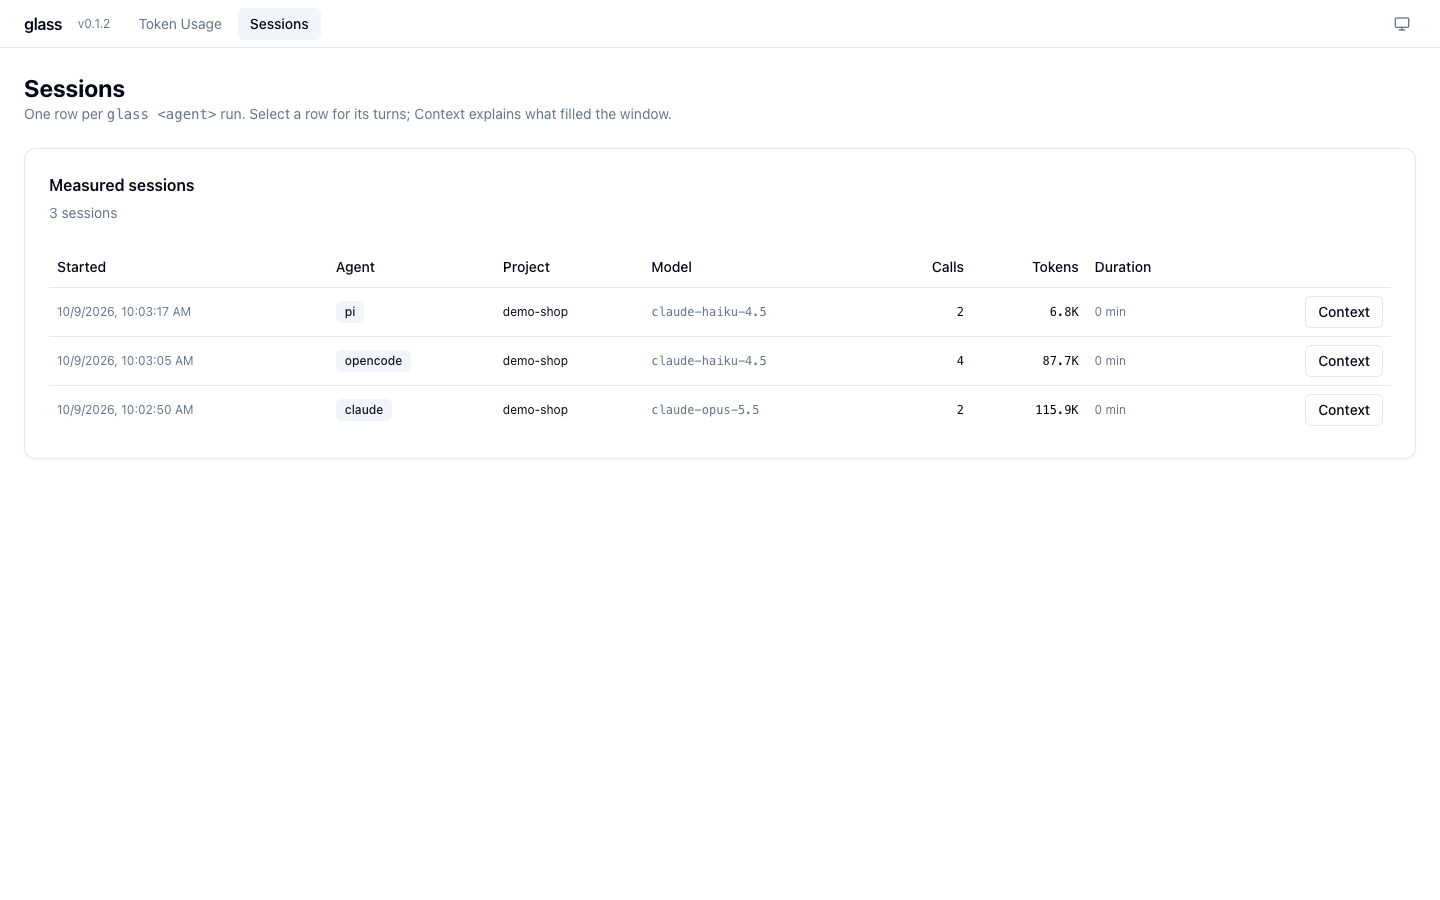
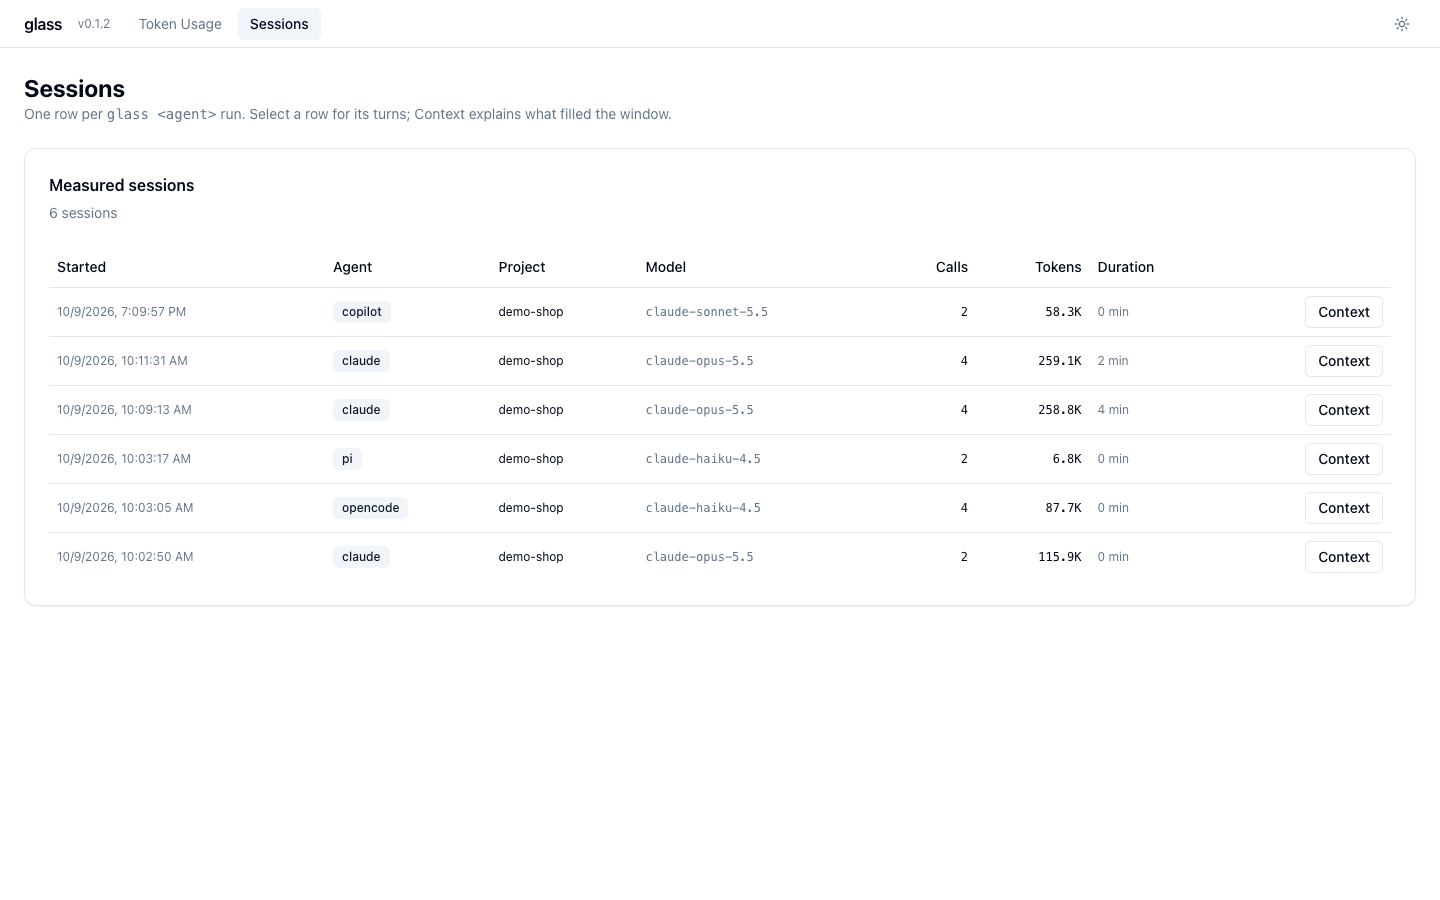
docs(glass): screenshots with all four agents (copilot measured), texts updated

diff --git a/glass/overlay/docs/_tiers/comparing-runs.deep.md b/glass/overlay/docs/_tiers/comparing-runs.deep.md
@@ -16,11 +16,13 @@ Anything you can vary between two `glass <agent>` runs:
 2. **Run each variant** through glass, one after the other.
 3. **Compare in Sessions** — one row per run:
 
-    ![Sessions, three agents on one task](images/ui-sessions.png)
+    ![Sessions, four agents on one task](images/ui-sessions.png)
 
-    Above: the same task with Claude Code, OpenCode and pi. Claude Code used 2 calls but
-    116K tokens, OpenCode 4 calls and 88K, pi 2 calls and 6.8K — mostly a difference in
-    how much context (system prompt, tool definitions) each agent sends.
+    Above, four rows ran the same task: Claude Code (10:02) used 2 calls and 116K tokens,
+    OpenCode (10:03) 4 calls and 88K, pi (10:03) 2 calls and 6.8K, copilot (19:09) 2
+    calls and 58K — mostly a difference in how much context (system prompt, tool
+    definitions) each agent sends. The 10:09 and 10:11 rows are interactive Claude Code
+    sessions with other prompts.
 
 4. **Compare the windows** — **Context** on each row:
 

diff --git a/glass/overlay/docs/_tiers/token-usage.deep.md b/glass/overlay/docs/_tiers/token-usage.deep.md
@@ -63,5 +63,5 @@ you are billed on. Checked against each agent's own report:
 
 | Agent | glass | Agent's own report |
 |---|---|---|
-| copilot | in 4 · cache write 28,457 · out 4 | "↑ 28.5k (28.5k written) • ↓ 4" |
+| copilot | prompt 57,868 (cache read 28,572 · written 29,290) · out 438 | "↑ 57.9k (28.6k cached, 29.3k written) • ↓ 438" |
 | pi | in 2,823 · out 43 | `--mode json` usage: input 2823, output 43 |

diff --git a/glass/overlay/docs/comparing-runs.md b/glass/overlay/docs/comparing-runs.md
@@ -16,7 +16,7 @@ each cost and how it used its context.
     Then `glass ui` → **Sessions**: both runs side by side — calls, tokens, model — and
     **Context** on each row for the window and cache comparison.
 
-    ![Three agents, one task](images/ui-sessions.png)
+    ![Four agents, one task](images/ui-sessions.png)
 
     glass has no automated experiment runner; you start the runs, glass measures them.
 
